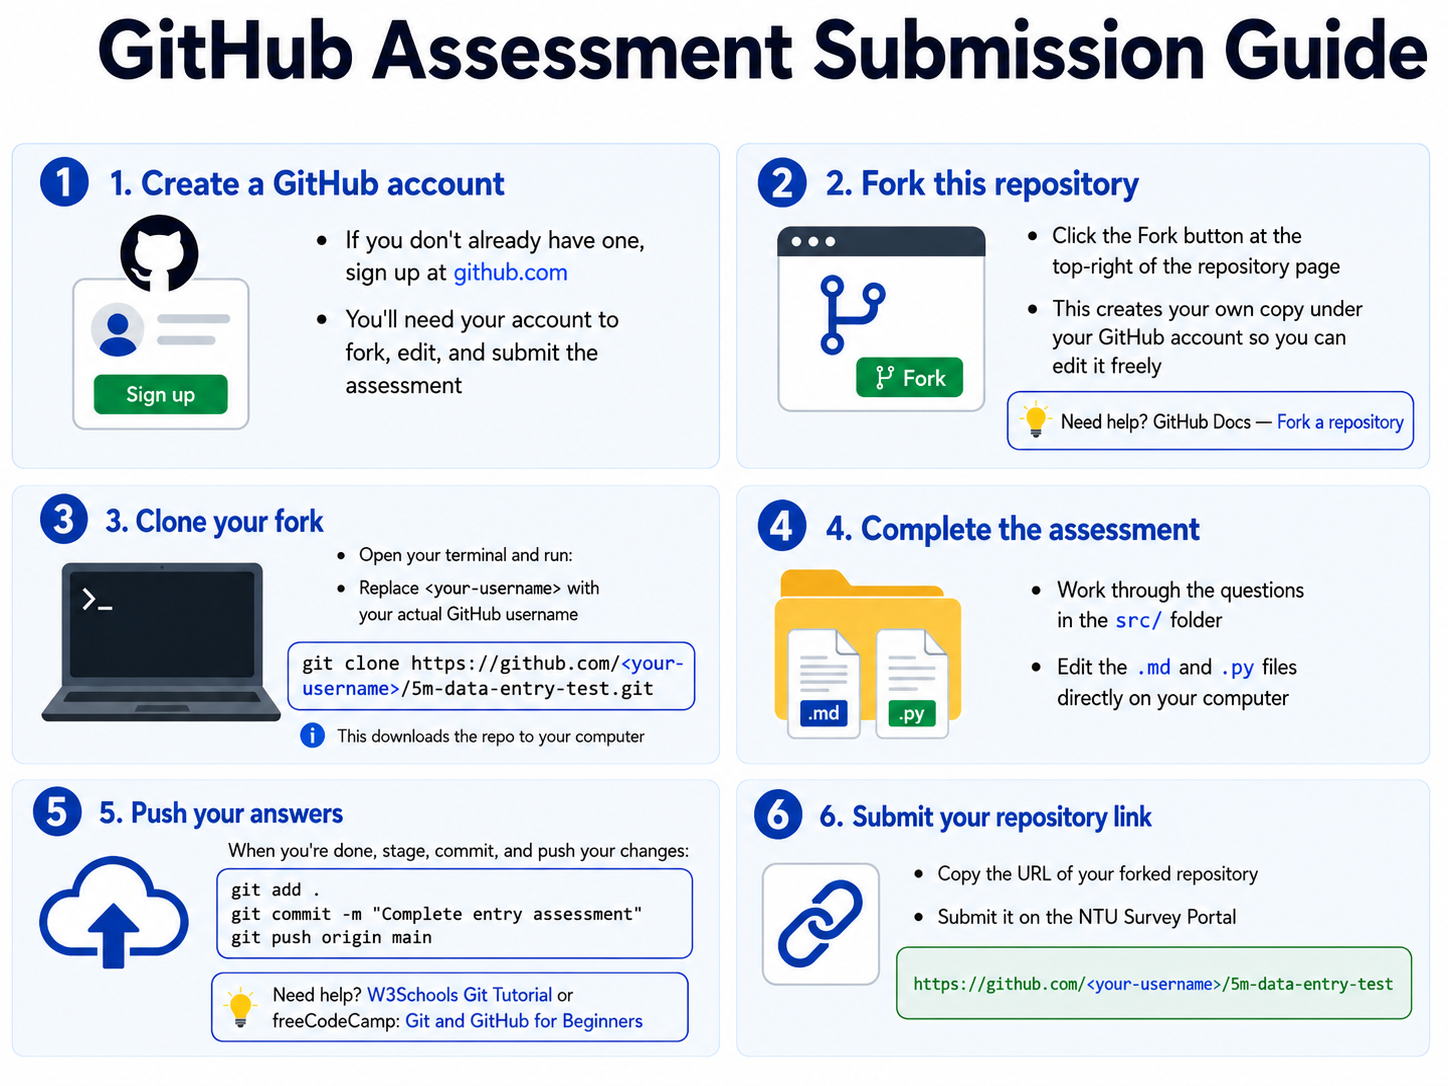
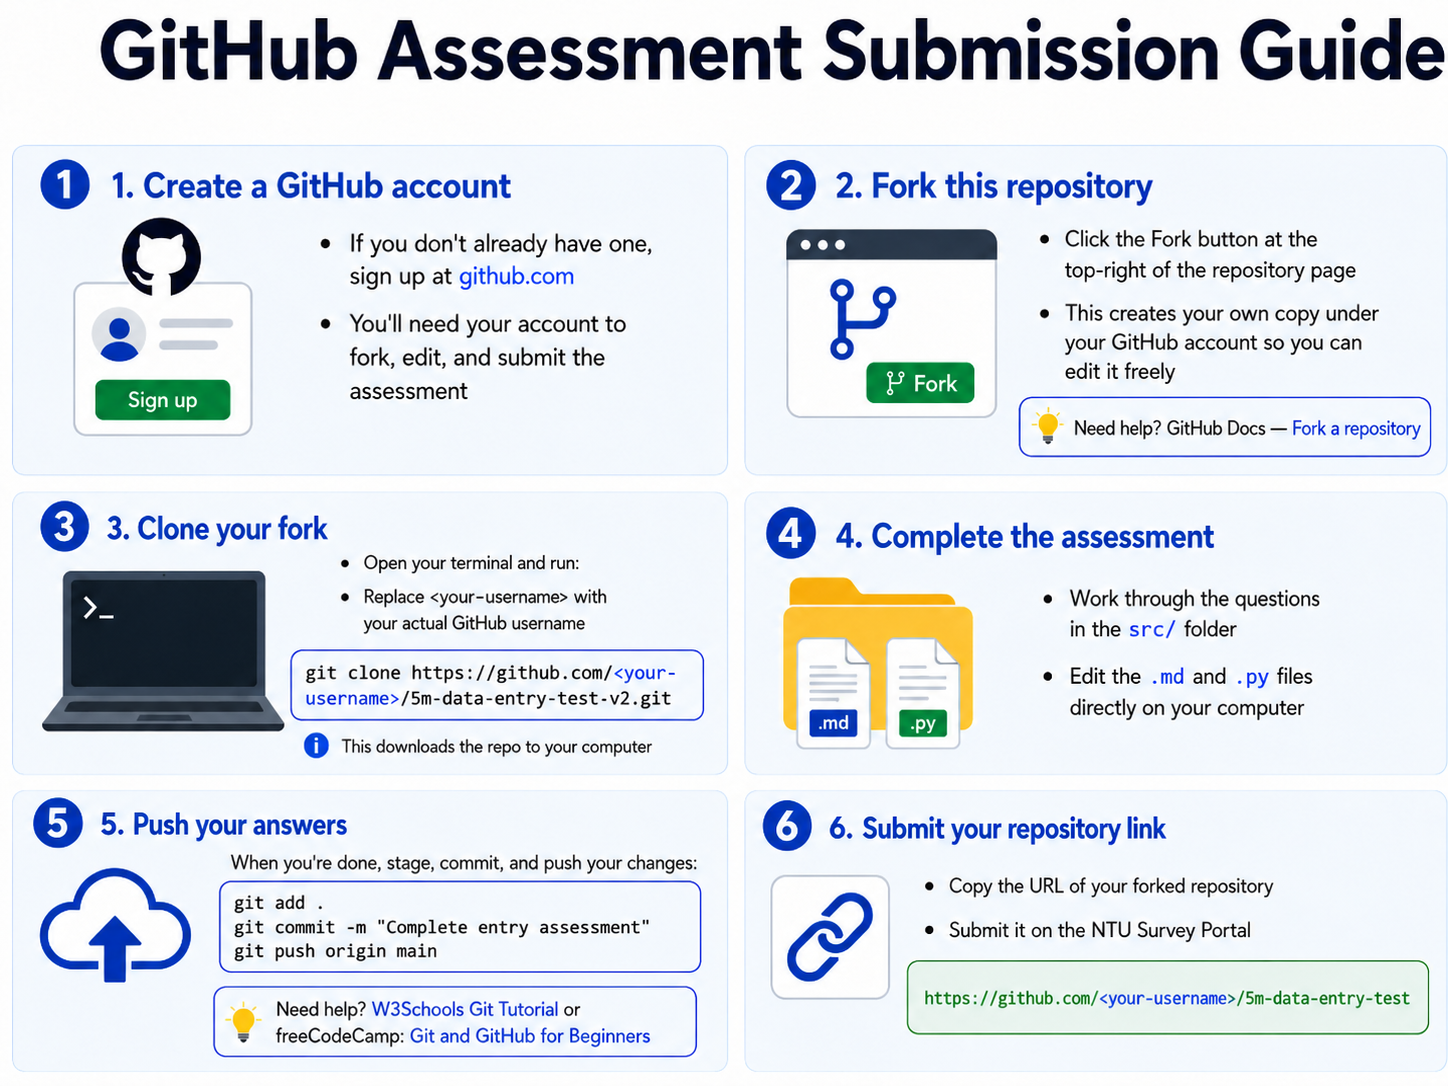
Update clone URL in README and replace submit image (added v2 to URL)

diff --git a/README.md b/README.md
@@ -62,7 +62,7 @@ Click the **Fork** button at the top-right of this page. This creates your own c
 Open your terminal and run:
 
 ```bash
-git clone https://github.com/<your-username>/5m-data-entry-test.git
+git clone https://github.com/<your-username>/5m-data-entry-test-v2.git
 ```
 
 Replace `<your-username>` with your actual GitHub username. This downloads your forked repo so you can work on the files locally.